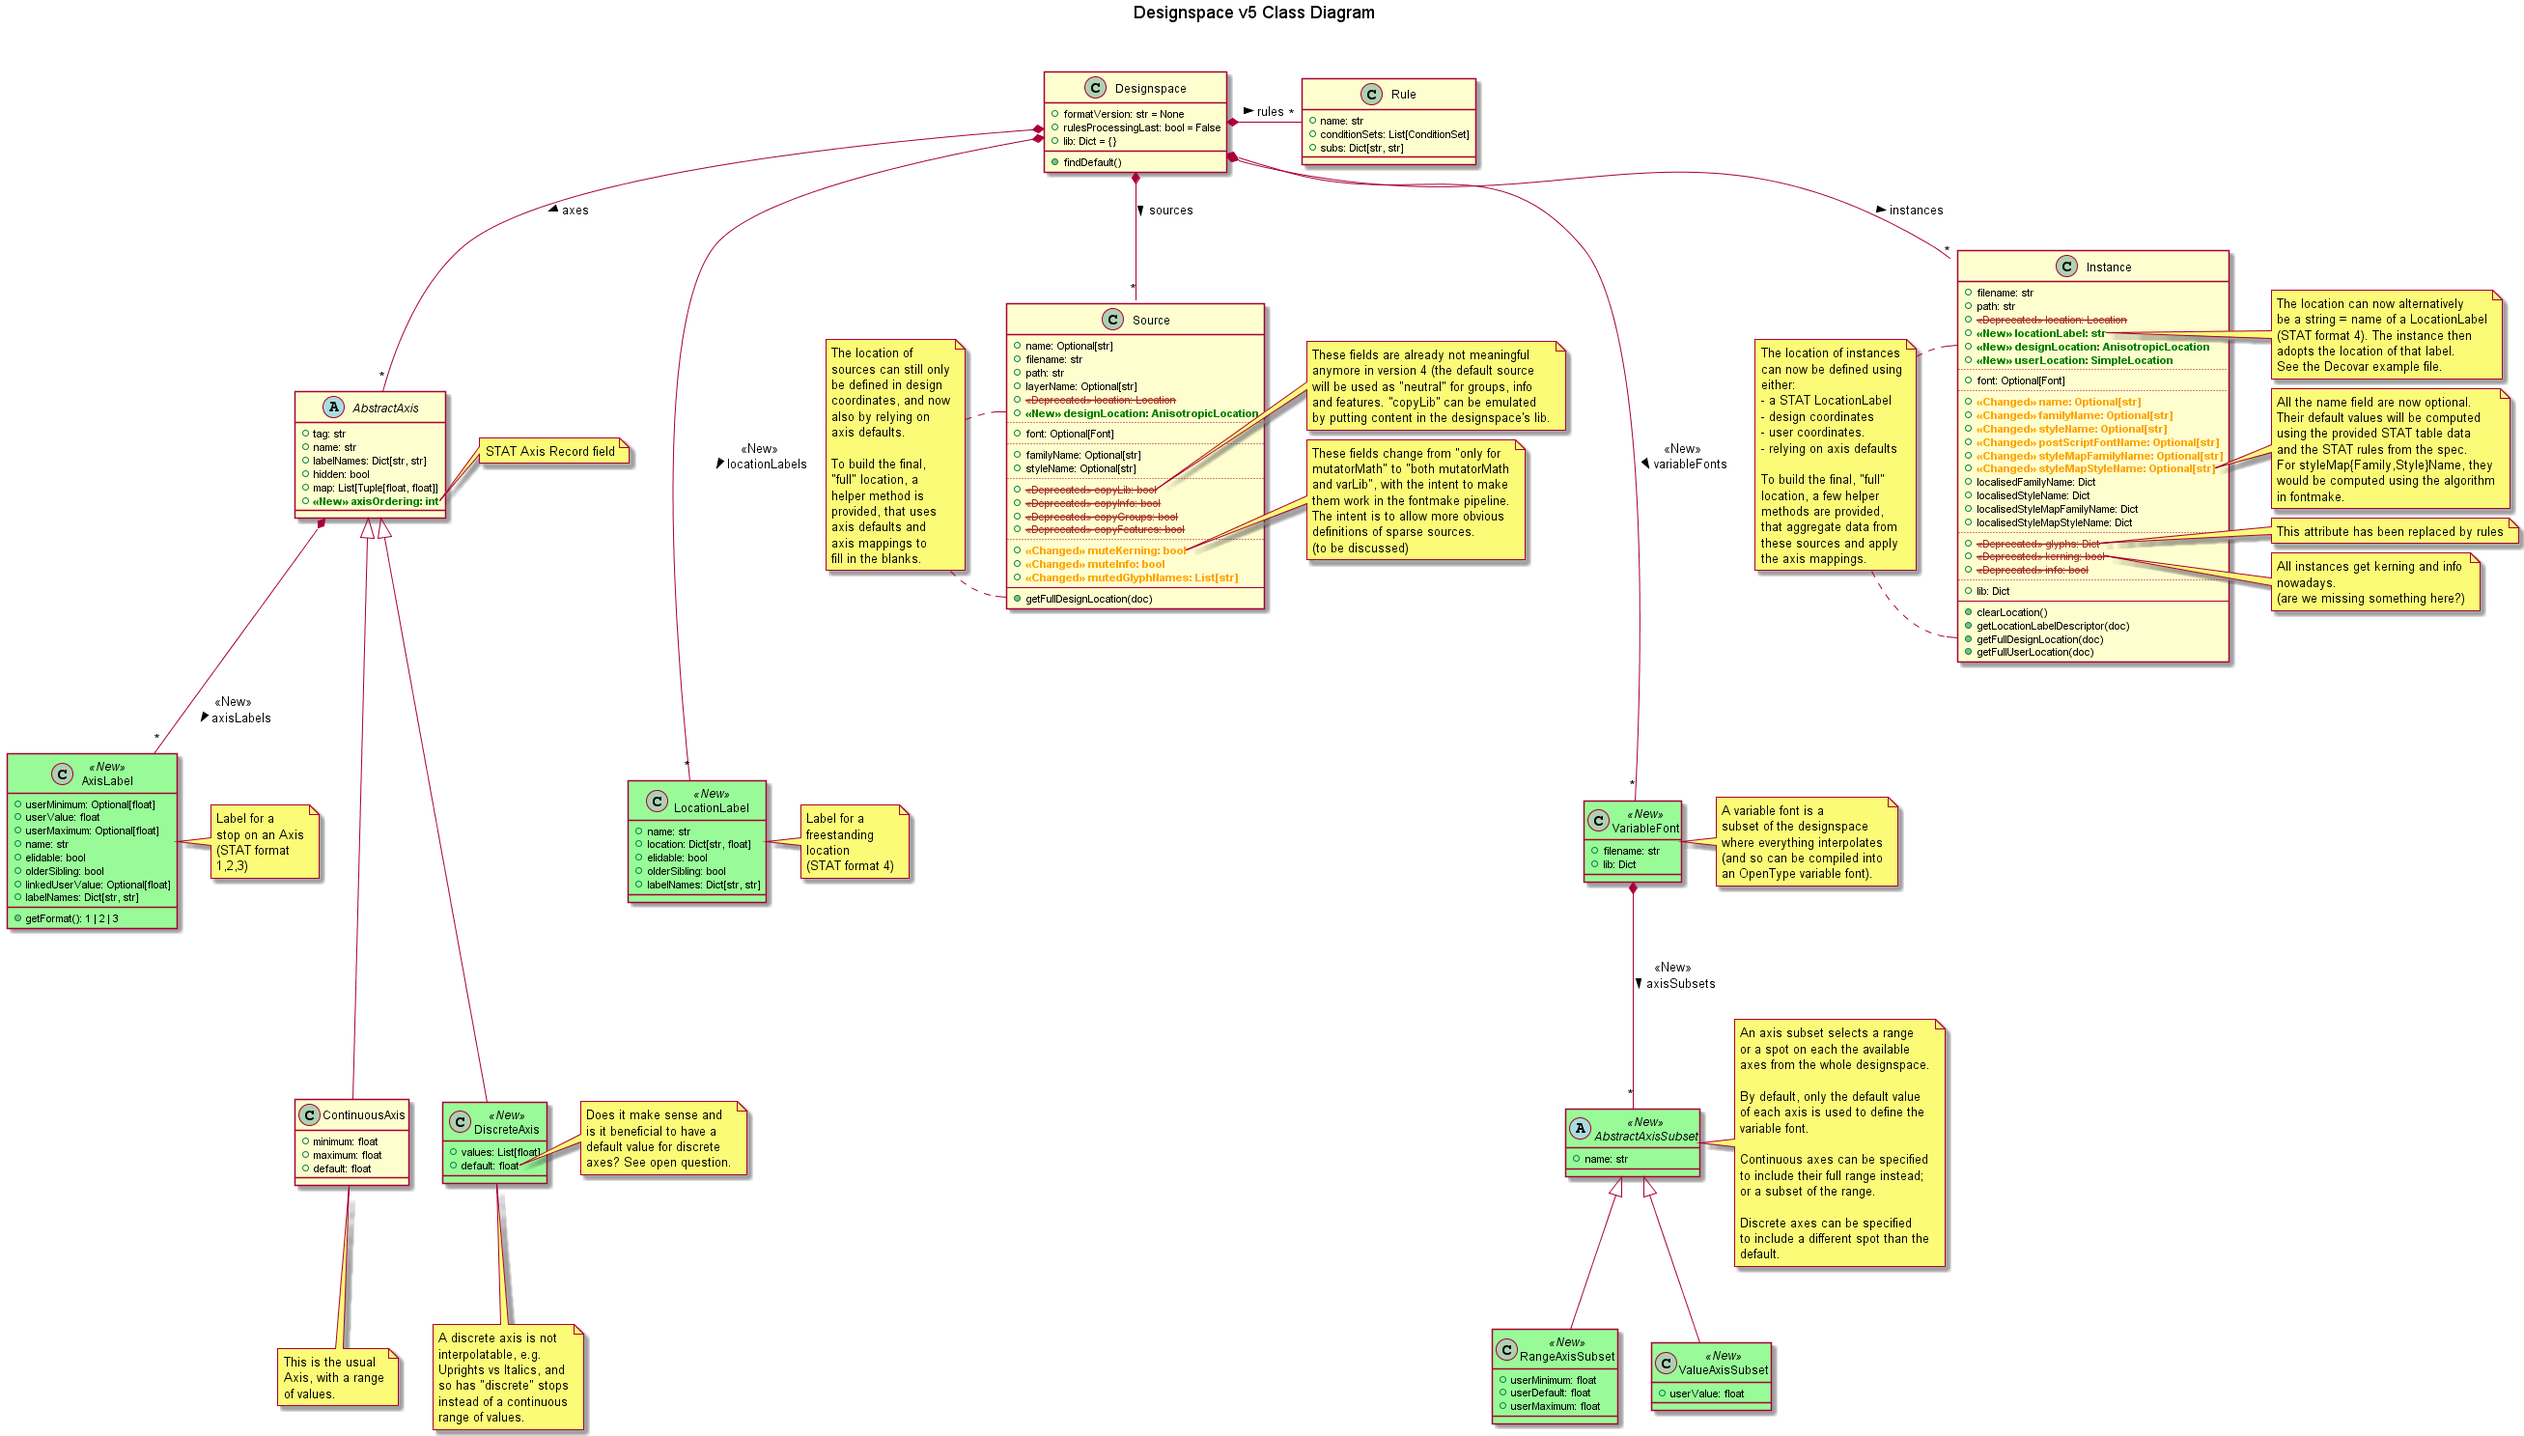
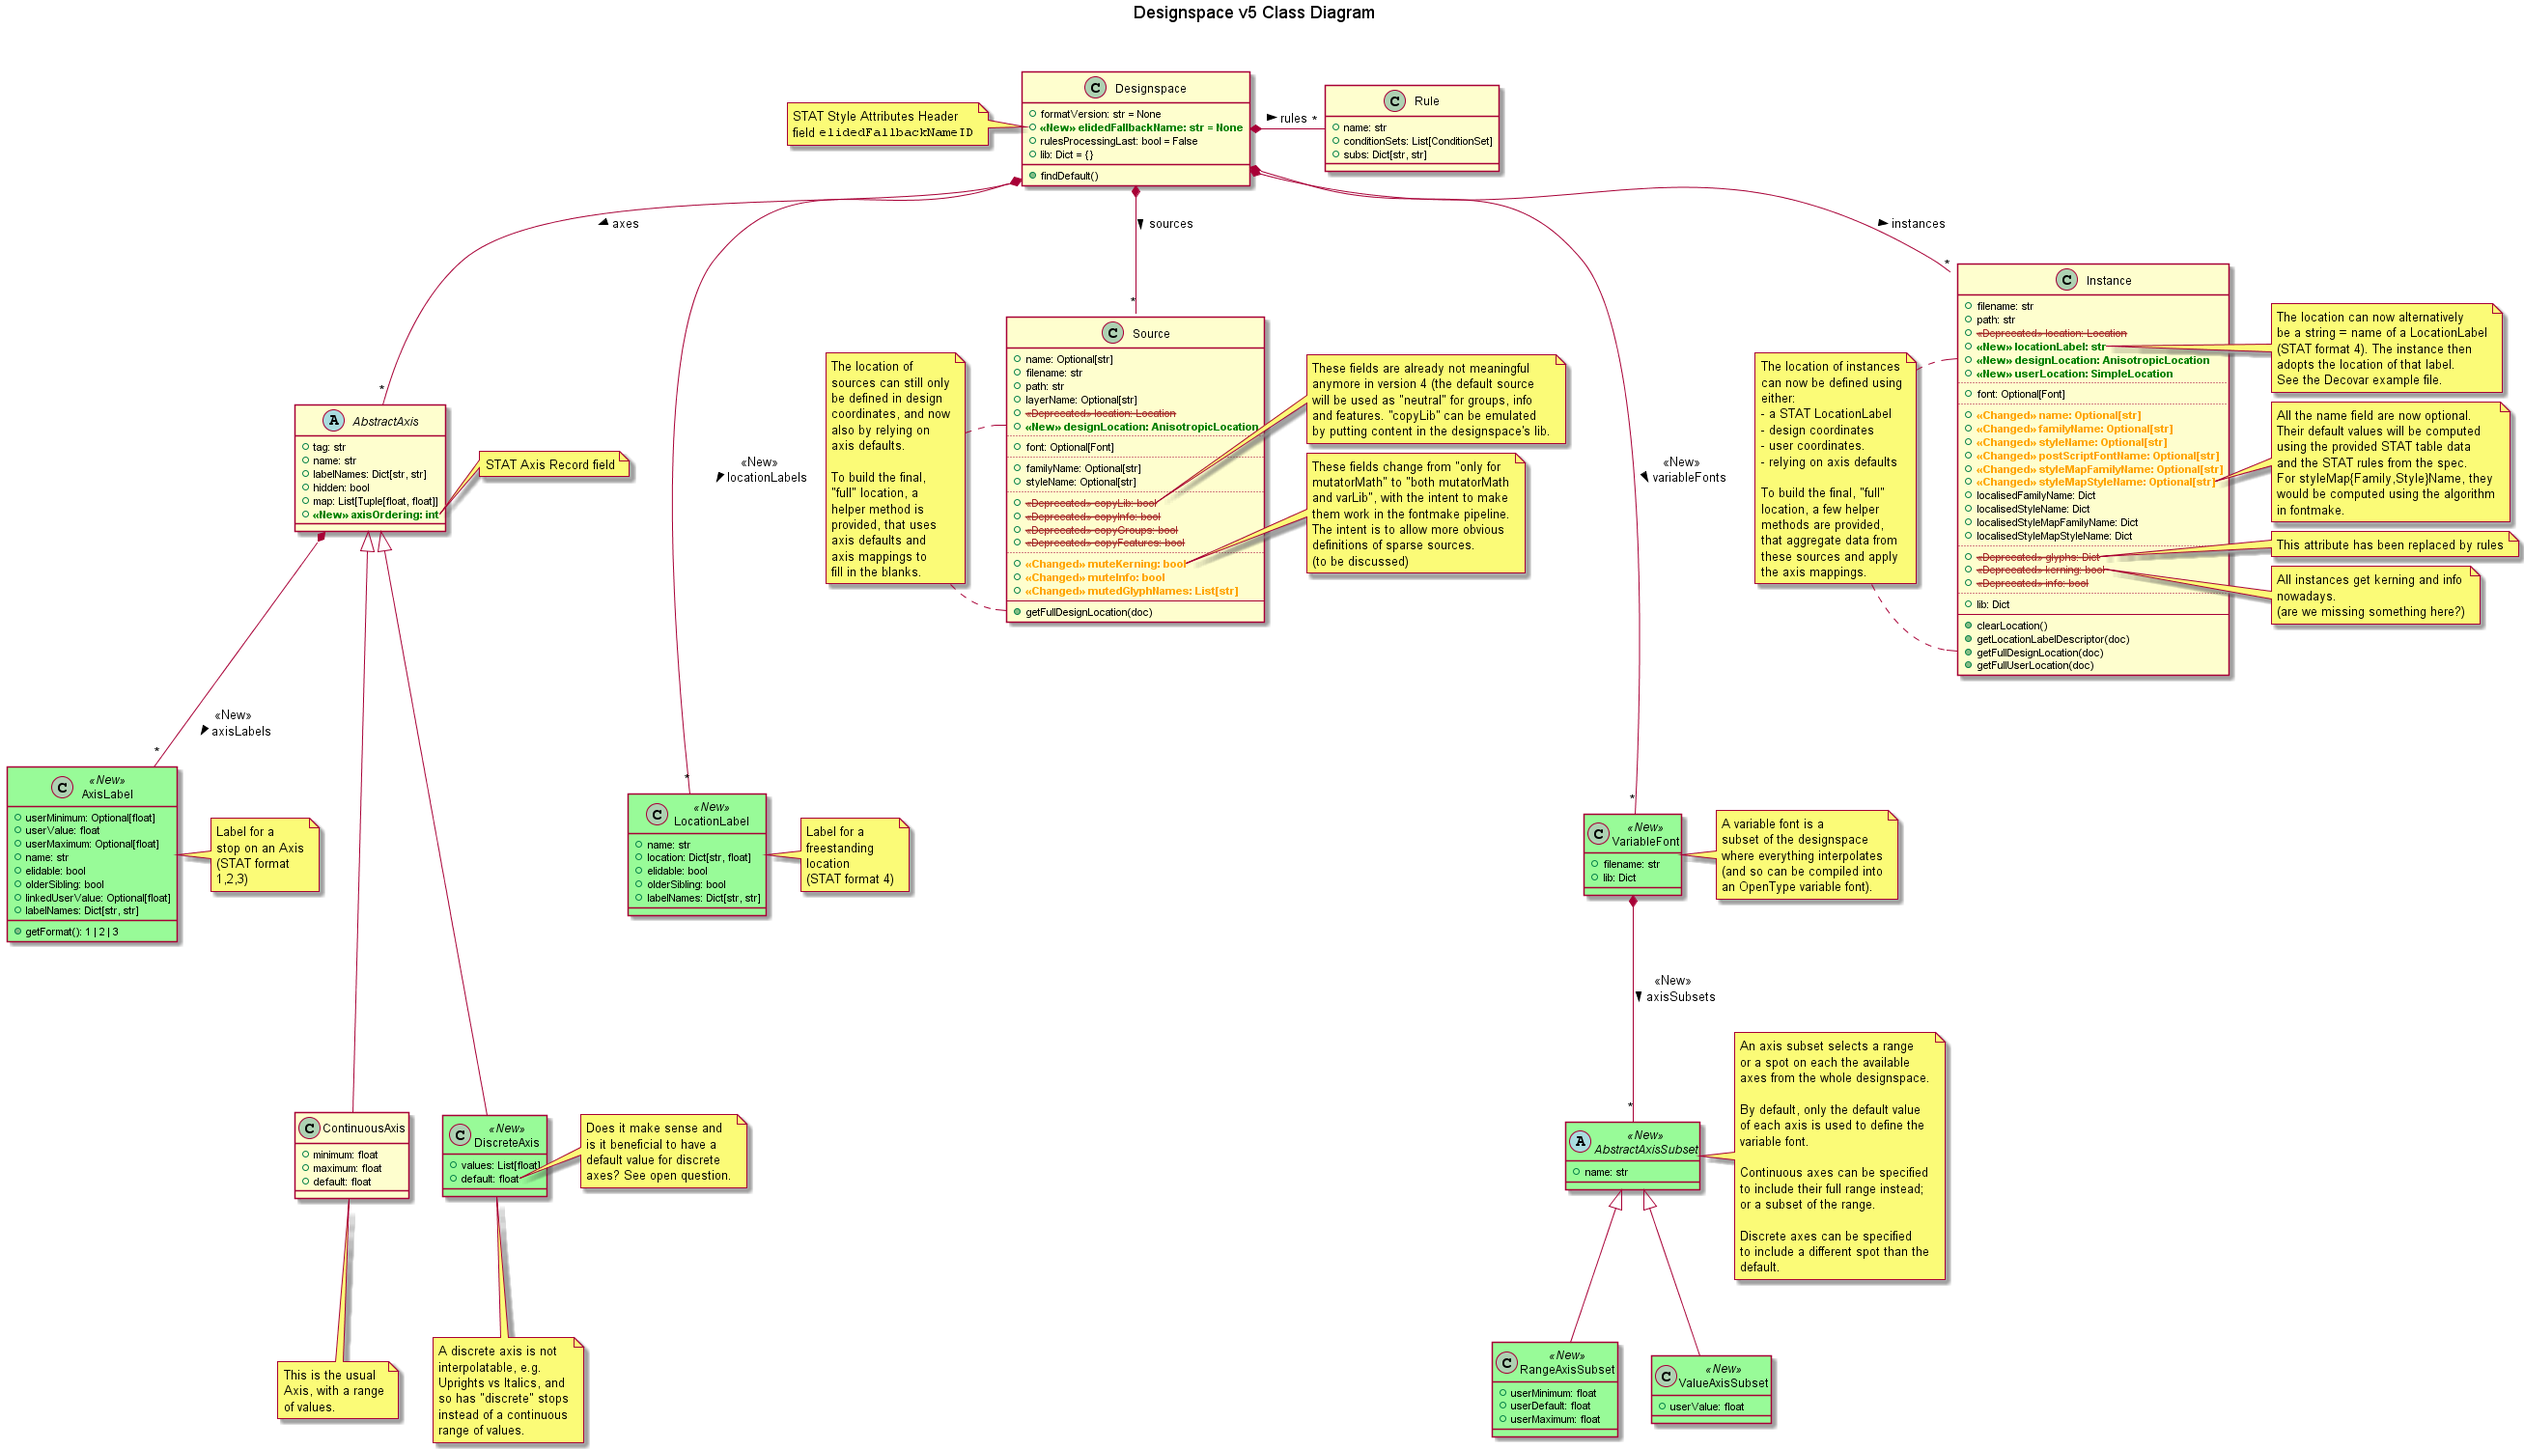
[designspaceLib] Add document.elidedFallbackName

diff --git a/Lib/fontTools/designspaceLib/__init__.py b/Lib/fontTools/designspaceLib/__init__.py
@@ -1258,6 +1258,8 @@ class BaseDocWriter(object):
 
     def write(self, pretty=True, encoding="UTF-8", xml_declaration=True):
         self.root.attrib['format'] = ".".join(str(i) for i in self.effectiveFormatTuple)
+        if self.documentObject.elidedFallbackName is not None:
+            self.root.attrib['elidedfallbackname'] = self.documentObject.elidedFallbackName
 
         if self.documentObject.axes:
             self.root.append(ET.Element("axes"))
@@ -1713,6 +1715,8 @@ class BaseDocReader(LogMixin):
         return self
 
     def read(self):
+        if 'elidedfallbackname' in self.root.attrib:
+            self.documentObject.elidedFallbackName = self.root.attrib['elidedfallbackname']
         self.readAxes()
         self.readLabels()
         self.readRules()
@@ -2251,9 +2255,12 @@ class DesignSpaceDocument(LogMixin, AsDictMixin):
 
         from fontTools.designspaceLib import DesignSpaceDocument
         doc = DesignSpaceDocument.fromfile("some/path/to/my.designspace")
+        doc.formatVersion
+        doc.elidedFallbackName
         doc.axes
         doc.locationLabels
         doc.rules
+        doc.rulesProcessingLast
         doc.sources
         doc.variableFonts
         doc.instances
@@ -2278,16 +2285,23 @@ class DesignSpaceDocument(LogMixin, AsDictMixin):
         self.formatVersion: Optional[str] = None
         """Format version for this document, as a string. E.g. "4.0" """
 
-        self.sources: List[SourceDescriptor] = []
-        self.instances: List[InstanceDescriptor] = []
+        self.elidedFallbackName: Optional[str] = None
+        """STAT Style Attributes Header field ``elidedFallbackNameID``.
+
+
+        See: `OTSpec STAT Style Attributes Header <https://docs.microsoft.com/en-us/typography/opentype/spec/stat#style-attributes-header>`_
+
+        .. versionadded:: 5.0
+        """
+
         self.axes: List[Union[AxisDescriptor, DiscreteAxisDescriptor]] = []
+        """List of this document's axes."""
         self.locationLabels: List[LocationLabelDescriptor] = []
-        """.. versionadded:: 5.0"""
+        """List of this document's STAT format 4 labels.
 
-        self.variableFonts: List[VariableFontDescriptor] = []
-        """.. versionadded:: 5.0"""
-
+        .. versionadded:: 5.0"""
         self.rules: List[RuleDescriptor] = []
+        """List of this document's rules."""
         self.rulesProcessingLast: bool = False
         """This flag indicates whether the substitution rules should be applied
         before or after other glyph substitution features.
@@ -2312,13 +2326,14 @@ class DesignSpaceDocument(LogMixin, AsDictMixin):
                 </dict>
             </lib>
         """
+        self.sources: List[SourceDescriptor] = []
+        """List of this document's sources."""
+        self.variableFonts: List[VariableFontDescriptor] = []
+        """List of this document's variable fonts.
 
-        self.default: Optional[str] = None
-        """Name of the default master.
-
-        This attribute is updated by the :meth:`findDefault`
-        """
-
+        .. versionadded:: 5.0"""
+        self.instances: List[InstanceDescriptor] = []
+        """List of this document's instances."""
         self.lib: Dict = {}
         """User defined, custom data associated with the whole document.
 
@@ -2326,7 +2341,12 @@ class DesignSpaceDocument(LogMixin, AsDictMixin):
         Respect the data stored by others.
         """
 
-        #
+        self.default: Optional[str] = None
+        """Name of the default master.
+
+        This attribute is updated by the :meth:`findDefault`
+        """
+
         if readerClass is not None:
             self.readerClass = readerClass
         else:

diff --git a/Lib/fontTools/designspaceLib/convert5to4.py b/Lib/fontTools/designspaceLib/convert5to4.py
@@ -3,9 +3,6 @@
 # FIXME: we're building a stylespace as in statmake but it's not part of fontTools
 # TODO: either move this converter out of fontTools so it can keep creating the stylespace
 #       or make this converter use the fontTools APIs for stat/generate data for these
-# TODO: The STAT table has a fallback name id for styles where everything is elided, but it
-#       is a name id, which exists in a VF, but not in a Designspace. Make accessible somehow?
-#       It should be set to "2" most of the time.
 # FIXME: How to deal with Designspaces where e.g. the wght axis mapping differs slightly? See
 #        e.g. Source Serif 4.
 
@@ -75,7 +72,12 @@ def convert5to4(
             )
             for label in doc.locationLabels
         ],
-        elided_fallback_name_id=2,  # FIXME: should this be DSv5?
+        # FIXME(Jany): I've added the elidedFallbackName property on DSDoc as string
+        # I think it should be the compiler's job to make the ID point to 2 if
+        # the string happens to be the same as name ID 2. Otherwise, if you
+        # can only input a name ID, how could you set this fallback name to
+        # an arbitrary value that doesn't already have a name ID in the font?
+        elided_fallback_name_id=2
     )
 
     ribbi_mapping = get_ribbi_mapping(doc)
